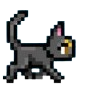
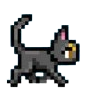
sprites

diff --git a/index.js b/index.js
@@ -1,6 +1,7 @@
 let des = document.getElementById('des').getContext('2d')
 
-let rat = new Rat(1300, 325, 80, 50, './img/')
+let rat = new Rat(1300, 325, 90, 50, './img/rato1.0.png')
+let rat2 = new Rat(1300, 325, 90, 50, './img/rato2.0.png')
 let cat = new Cat(10, 325, 85, 99, '../img/andar0.png')
 
 let t1 = new Text()
@@ -17,7 +18,7 @@ let jogar = true
 let fase = 1
 
 document.addEventListener('keydown', (e) => {
-    motor.play()
+    // motor.play()
     if (e.key === 'w' || e.key === 'ArrowUp') {
         cat.dir -= 10
     } else if (e.key === 's' || e.key === 'ArrowDown') {
@@ -59,7 +60,7 @@ function colisao() {
         cat.vida -= 1
 
     }
-    // console.log('vida: ', cat.vida)
+    console.log('colidiu')
 }
 
 function pontuacao() {
@@ -82,6 +83,7 @@ function desenha() {
     if (jogar) {
         rat.des_cat()
         cat.des_cat()
+        rat2.des_cat()
         t1.des_text('Pontos: ' + cat.pontos, 1000, 40, 'yellow', '26px Arial')
         t2.des_text('Vidas: ' + cat.vida, 40, 40, 'red', '26px Arial')
         fase_txt.des_text('Fase: ' + fase, 550, 40, 'white', '26px Arial')
@@ -97,6 +99,9 @@ function atualiza() {
         cat.mov_cat()
         cat.anim('andar')
         rat.mov_rat()
+        rat.anim('rato1.')
+        rat2.mov_rat()
+        rat2.anim('rato2.')
         colisao()
         pontuacao()
         ver_fase()

diff --git a/models/Cat.js b/models/Cat.js
@@ -20,8 +20,7 @@ class Cat extends Obj{
     dir = 0
     vida = 5
     pontos = 0
-    frame = 1
-    tempo = 0
+   
 
     mov_cat(){
         this.y += this.dir
@@ -51,20 +50,20 @@ class Cat extends Obj{
         }
     }
 
-    anim(nome){
+      frame = 0
+      tempo = 0
+      anim(nome){
         this.tempo +=1
         if(this.tempo > 12){
             this.tempo = 0
             this.frame +=1
         }
-        if(this.frame>2){
-            this.frame=1
+        if(this.frame>3){
+            this.frame=0
         }
         //cat_001_bg
         this.a = "./img/"+nome+this.frame+".png"
     }
-
-
     
 }
 
@@ -83,16 +82,26 @@ class Rat extends Obj{
             this.recomeca()         
         }
     }
+
+      frame = 0
+      tempo = 0
+      anim(nome){
+        this.tempo +=1
+        if(this.tempo > 12){
+            this.tempo = 0
+            this.frame +=1
+        }
+        if(this.frame>2){
+            this.frame=0
+        }
+        //cat_001_bg
+        this.a = "./img/"+nome+this.frame+".png"
+    }
+
 }
 
-// class Estrada extends Obj{
-//     mov_est(){
-//         this.x -= 6
-//         if(this.x < - 60){
-//             this.x = 1300
-//         }        
-//     }
-// }
+
+
 
 class Text{
     des_text(text,x,y,cor,font){
